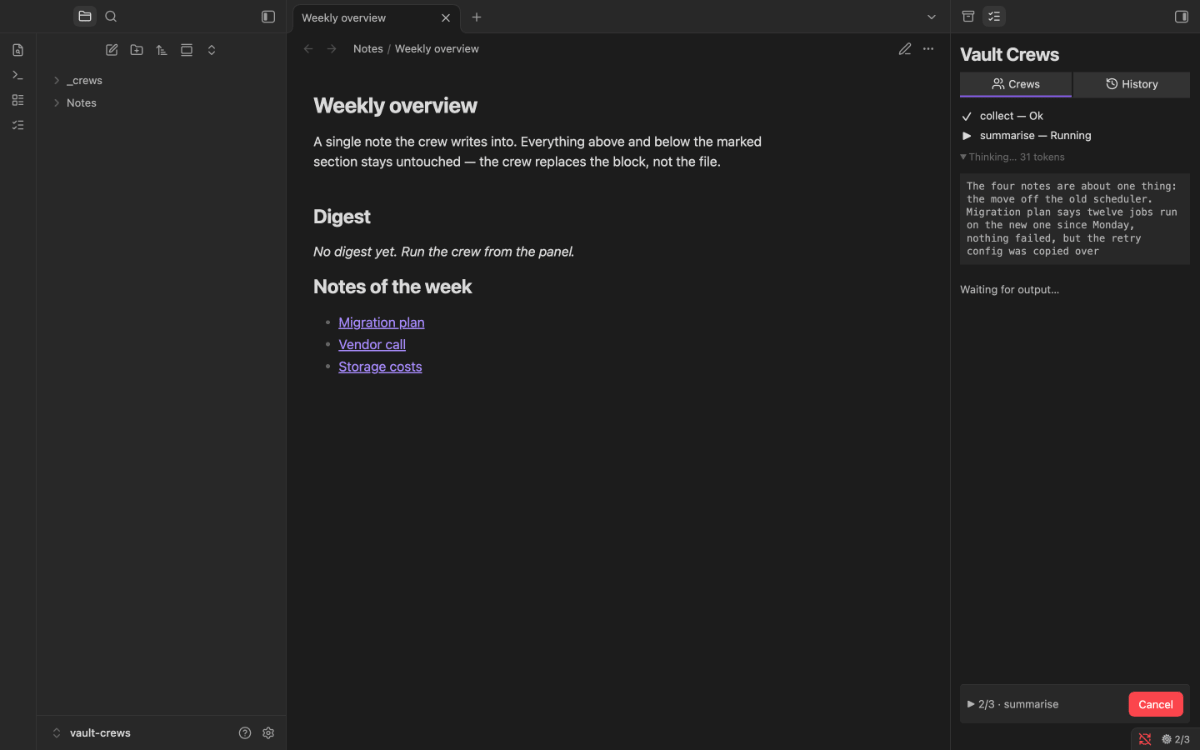
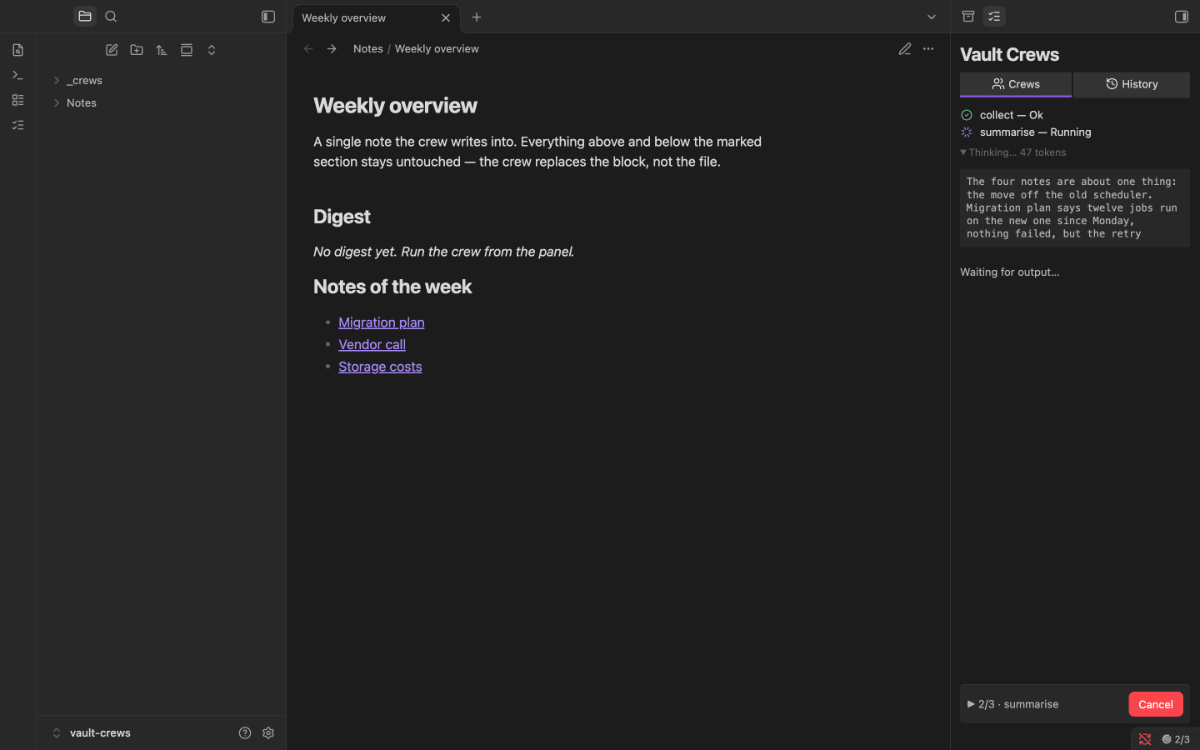
docs(readme): Hero zeigt Status-Symbole und Denk-Zähler; shots.ts-Kommentar zum Stub berichtigt

Changed region(s): [[0.8017, 0.1533, 0.9867, 0.3987]]

diff --git a/scripts/shots.ts b/scripts/shots.ts
@@ -32,10 +32,11 @@
  *
  * ## Was hier anders ist als in einem Rendering-Plugin
  *
- * Drei der fünf Bilder zeigen einen **echten Lauf** gegen ein echtes Modell. Das ist
- * teurer als ein Standbild und dauert je nach Modell eine Minute — aber ein nachgestellter
- * Panel-Zustand würde den eigenen Eingriff dokumentieren statt das Plugin. Wenn kein
- * Endpunkt antwortet, meldet der Treiber das und lässt das Bild aus; er erfindet keines.
+ * Drei der fünf Bilder (`hero.png`, `history-undo.png`, `run-log.png`) zeigen einen **echten Lauf des Plugins**
+ * gegen den zentralen LLM-Stub (`tools/obsidian-cdp/llm-stub.ts`), nicht gegen ein geladenes Modell: derselbe Strom bei
+ * jeder Aufnahme, kein JIT-Laden, keine Abhängigkeit von LM Studio. Plugin, Orchestrator und Panel laufen echt; nur die
+ * Antwort des Servers ist festgelegt. Ein nachgestellter Panel-Zustand würde den eigenen Eingriff dokumentieren statt das
+ * Plugin.
  */
 
 import { existsSync } from "node:fs";

diff --git a/CHANGELOG.md b/CHANGELOG.md
@@ -6,6 +6,10 @@ All notable changes to this project are documented here. The format follows
 
 ## [Unreleased]
 
+### Documentation
+
+- The README hero shows the new status icons and the thinking counter.
+
 ## [0.20.0] — 2026-10-16
 
 ### Fixed
